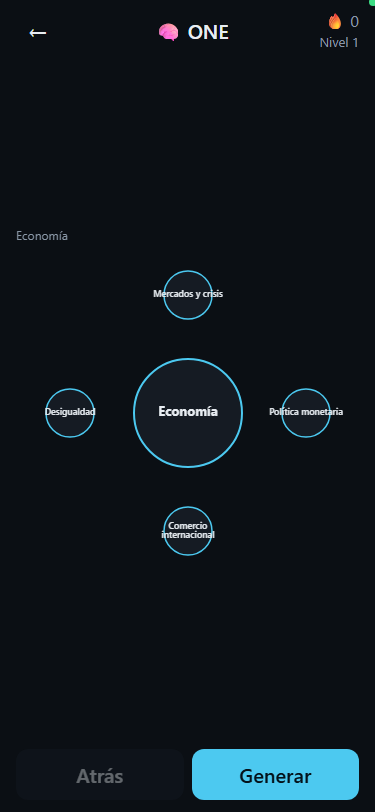
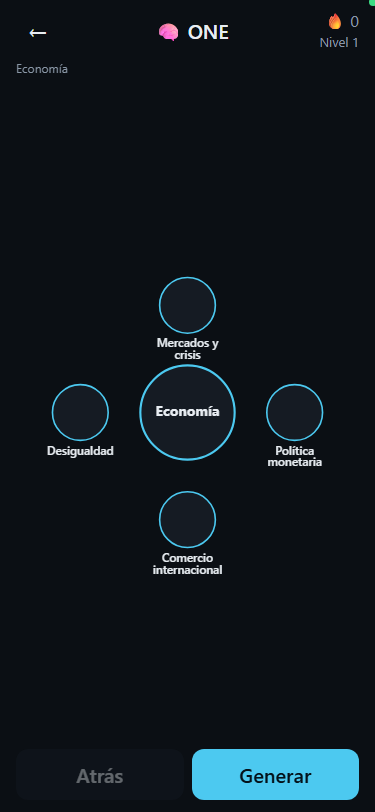
Ronda 1 de revisión (Tarea 2): e2e de los arreglos + captura regenerada
Tres casos nuevos: doble click en Generar manda un solo POST /generar
(dos .click() nativos en el mismo tick, no dos de Playwright -- estos
ya esperarían a que el botón esté "enabled" entre medias y no
reproducirían la carrera); el trabajo desaparece (404 en /trabajo/:id)
muestra el chip de fallo y detiene el sondeo (sin llamadas de más en un
ciclo siguiente); sin-scroll también a 393x852 en el caso "con
servidor", no solo a 375x812. servidorAtomoFalso admite ahora
`contadores` (cuenta llamadas por ruta, sin depender de temporizadores)
y `trabajoRespuesta` (sustituye la respuesta de /trabajo/:id para el
caso 404), con el mismo comportamiento de siempre si no se pasan.

Captura v0.2b2-atomo-375.png regenerada y revisada a mano con Read: las
etiquetas de los 4 nodos se ven completas debajo de su círculo, sin
solaparse con el núcleo ni entre sí.

48 e2e y 408 unitarios en verde.

Claude-Session: https://claude.ai/code/session_01UVvhBTcCK6CYm6LEyJUvJk

diff --git a/tests/e2e.spec.js b/tests/e2e.spec.js
@@ -2849,12 +2849,23 @@ test.describe('ONE · Átomo v0.2b2 §4 (atomo.js + app.js)', () => {
    * interferir con el chip de banco extendido), /subtemas con un anillo 1 fijo de 4 nodos y un
    * anillo 2 de 2, /generar con un trabajoId fijo, y /trabajo/:id que responde "generando" en el
    * primer sondeo y "lista" con 10 preguntas en el segundo (brief de la tarea: "tras 2 sondeos
-   * simulados"). */
-  function servidorAtomoFalso() {
+   * simulados").
+   *
+   * Ronda 1 de revisión: dos parámetros nuevos, opcionales y con el mismo comportamiento de
+   * siempre si no se pasan. `contadores` (objeto mutable) suma una llamada por ruta real (nunca
+   * por el preflight OPTIONS) -- para comprobar cuántas veces se llamó a algo sin depender de
+   * temporizadores. `trabajoRespuesta` sustituye ENTERA la respuesta de /trabajo/:id (todas las
+   * veces, no solo la primera) -- para el caso "el trabajo ya no existe" (404 tras reiniciar el
+   * servidor, Minor #8). */
+  function servidorAtomoFalso({ contadores = {}, trabajoRespuesta = null } = {}) {
     let sondeos = 0;
+    const suma = (clave) => {
+      contadores[clave] = (contadores[clave] || 0) + 1;
+    };
     return conPreflight(async (route, req) => {
       const url = new URL(req.url());
       if (url.pathname === '/estado') {
+        suma('estado');
         await route.fulfill({
           status: 200,
           contentType: 'application/json',
@@ -2864,6 +2875,7 @@ test.describe('ONE · Átomo v0.2b2 §4 (atomo.js + app.js)', () => {
         return;
       }
       if (url.pathname === '/subtemas') {
+        suma('subtemas');
         const cuerpo = req.postDataJSON();
         const ruta = Array.isArray(cuerpo.ruta) ? cuerpo.ruta : [];
         const subtemas =
@@ -2887,6 +2899,7 @@ test.describe('ONE · Átomo v0.2b2 §4 (atomo.js + app.js)', () => {
         return;
       }
       if (url.pathname === '/generar') {
+        suma('generar');
         await route.fulfill({
           status: 200,
           contentType: 'application/json',
@@ -2896,6 +2909,11 @@ test.describe('ONE · Átomo v0.2b2 §4 (atomo.js + app.js)', () => {
         return;
       }
       if (url.pathname.startsWith('/trabajo/')) {
+        suma('trabajo');
+        if (trabajoRespuesta) {
+          await route.fulfill(trabajoRespuesta);
+          return;
+        }
         sondeos += 1;
         if (sondeos === 1) {
           await route.fulfill({
@@ -2974,6 +2992,11 @@ test.describe('ONE · Átomo v0.2b2 §4 (atomo.js + app.js)', () => {
     await page.screenshot({ path: `${CAPTURAS}/v0.2b2-atomo-375.png` });
     await assertSinScroll(page);
 
+    // Ronda 1 de revisión (Minor #7): sin-scroll también a 393x852, no solo a 375x812.
+    await page.setViewportSize({ width: 393, height: 852 });
+    await assertSinScroll(page);
+    await page.setViewportSize({ width: 375, height: 812 });
+
     await page.locator('[data-test="atomo-nodo"]').first().click();
     await expect(page.locator('[data-test="atomo-ruta"]')).toHaveText('Economía › Mercados y crisis');
     await expect(page.locator('[data-test="atomo-nodo"]')).toHaveCount(2); // anillo 2 (mock de arriba)
@@ -3005,5 +3028,56 @@ test.describe('ONE · Átomo v0.2b2 §4 (atomo.js + app.js)', () => {
     // "0/10": recién arrancada (0 respondidas), 10 preguntas totales -- exactamente los ids de
     // la tanda que acaba de llegar, sin relleno (empezarPartida({ids, etiqueta})).
     await expect(tarjetaActual(page).locator('[data-test="mazo-contador"]')).toHaveText('0/10');
+  });
+
+  test('doble click en Generar no manda dos POST /generar (Ronda 1 de revisión, Critical)', async ({ page }) => {
+    const contadores = {};
+    await page.route(`${URL_SERVIDOR}/**`, servidorAtomoFalso({ contadores }));
+
+    await page.goto(`/?test=1&servidor=${encodeURIComponent(URL_SERVIDOR)}&token=${TOKEN}`);
+    await expect(page.locator('[data-vista="progreso"]')).toBeVisible();
+
+    await page.locator('[data-test="practicar-economia"] [data-test="atomo-abrir"]').click();
+    await expect(page.locator('[data-vista="atomo"]')).toBeVisible();
+    await expect(page.locator('[data-test="atomo-generar"]')).toBeEnabled();
+
+    // Dos toques "a la vez" DE VERDAD: dos `.click()` nativos en el MISMO tick de JS. Dos
+    // `.click()` de Playwright no valdrían -- cada uno espera a que el botón esté "enabled" antes
+    // de tocarlo, así que el segundo se quedaría esperando a que se reactive y nunca reproduciría
+    // la carrera que existía antes de este arreglo (atomoGenerarEnVuelo, ver app.js).
+    await page.evaluate(() => {
+      const boton = document.querySelector('[data-test="atomo-generar"]');
+      boton.click();
+      boton.click();
+    });
+
+    await expect(page.locator('[data-vista="atomo-espera"]')).toBeVisible();
+    expect(contadores.generar).toBe(1);
+  });
+
+  test('el trabajo desaparece (404 tras reiniciar el servidor): chip de fallo y el sondeo se detiene (Ronda 1 de revisión, Minor #8)', async ({
+    page,
+  }) => {
+    const contadores = {};
+    await page.route(
+      `${URL_SERVIDOR}/**`,
+      servidorAtomoFalso({ contadores, trabajoRespuesta: { status: 404, headers: CORS, body: '{}' } })
+    );
+
+    await page.goto(`/?test=1&servidor=${encodeURIComponent(URL_SERVIDOR)}&token=${TOKEN}`);
+    await expect(page.locator('[data-vista="progreso"]')).toBeVisible();
+
+    await page.locator('[data-test="practicar-economia"] [data-test="atomo-abrir"]').click();
+    await page.locator('[data-test="atomo-generar"]').click();
+    await expect(page.locator('[data-vista="atomo-espera"]')).toBeVisible();
+
+    const chip = page.locator('[data-test="tanda-lista"]');
+    await expect(chip).toHaveText('No se pudo generar, prueba otra vez', { timeout: 8000 });
+
+    // El sondeo se detiene en cuanto consultarTrabajo devuelve null (404): un ciclo más (5s) no
+    // debe sumar ninguna llamada más a /trabajo/:id.
+    const llamadasTrasElFallo = contadores.trabajo;
+    await page.waitForTimeout(6000);
+    expect(contadores.trabajo).toBe(llamadasTrasElFallo);
   });
 });
